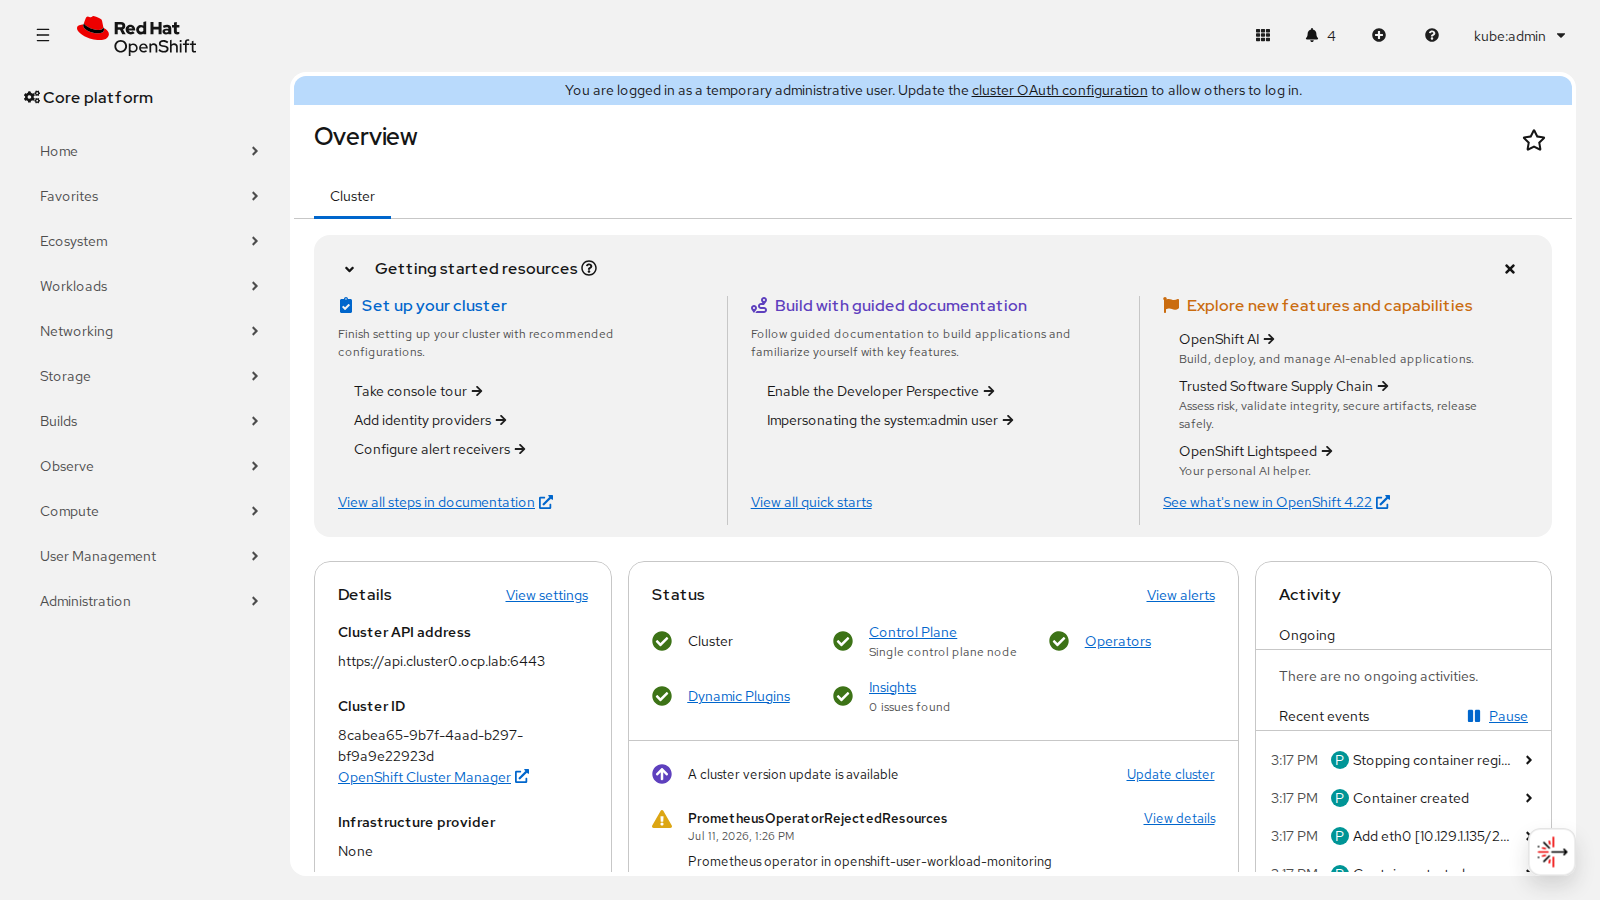
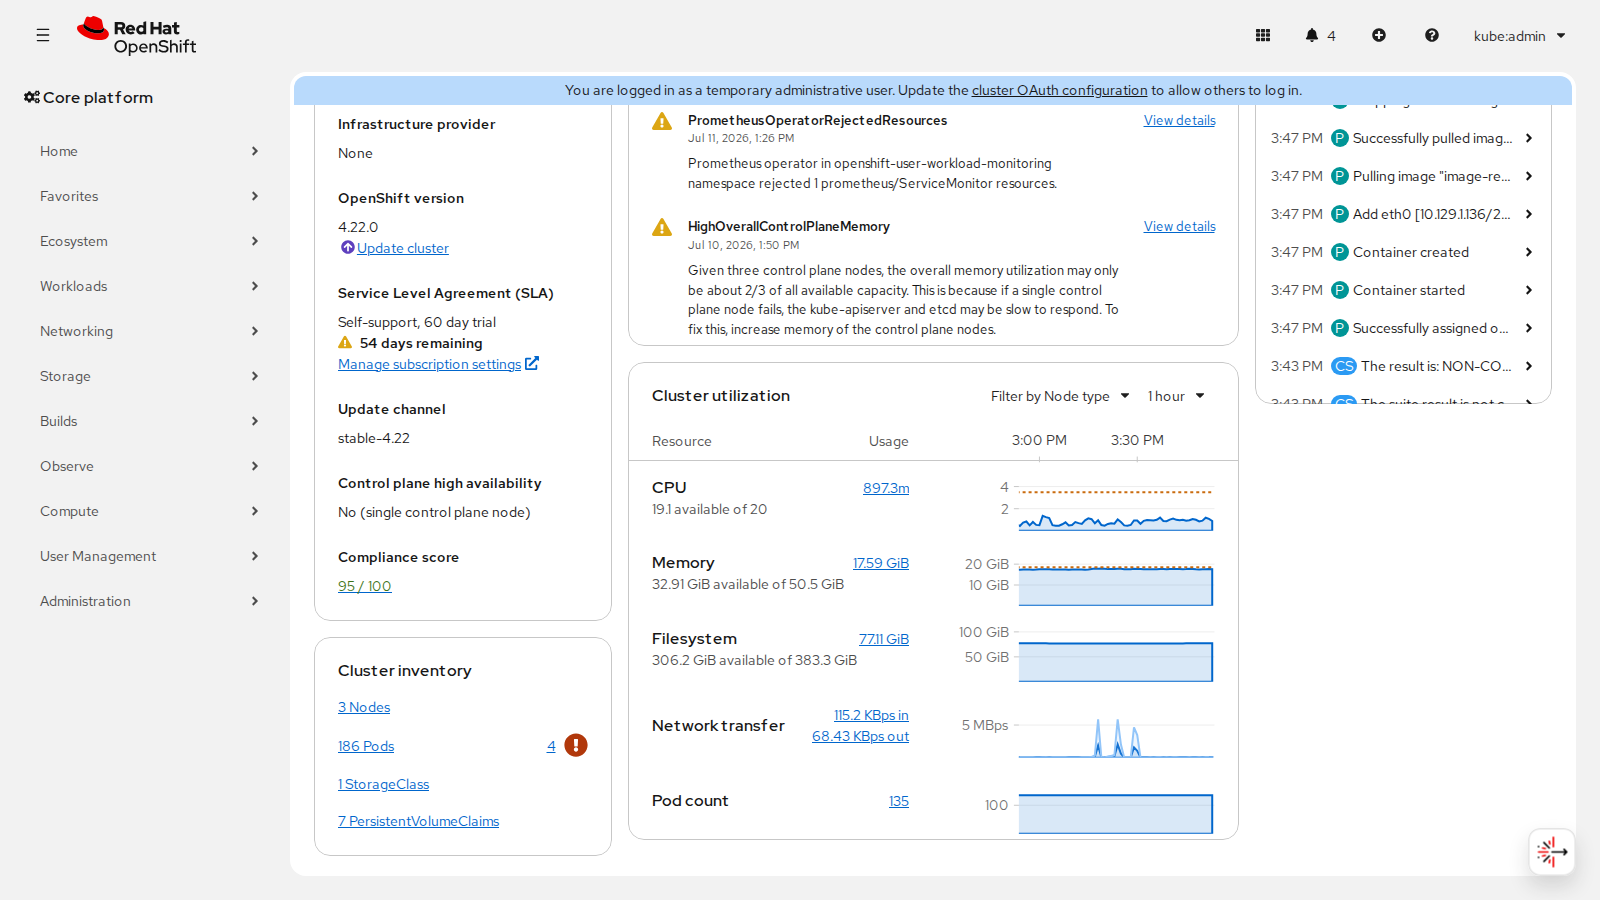
e2e: scroll the Compliance score into view for the dashboard screenshot
The dashboard-score screenshot captured the top of the cluster Overview, but the
plugin-injected "Compliance score" row sits low in the Details card, below the
viewport fold, so the image never showed the feature its docs caption points at
(toBeVisible does not scroll). Scroll the score link into view before the shot
and assert the "Compliance score" label. Refreshed screenshot now shows the
95 / 100 deep-link in the Details card.

diff --git a/console-plugin/e2e/screenshots.spec.ts b/console-plugin/e2e/screenshots.spec.ts
@@ -77,6 +77,11 @@ test.describe('Baseline Security screenshots', () => {
     await page.goto('/dashboards', { waitUntil: 'networkidle' });
     const score = page.getByRole('link', { name: /\d+ of 100/ });
     await expect(score).toBeVisible();
+    // The injected "Compliance score" row sits low in the Details card, below the
+    // default viewport fold; scroll it into view so the screenshot actually shows
+    // the feature the docs caption points at (toBeVisible alone does not scroll).
+    await score.scrollIntoViewIfNeeded();
+    await expect(page.getByText('Compliance score')).toBeVisible();
     await shot(page, 'dashboard-score');
   });
 });